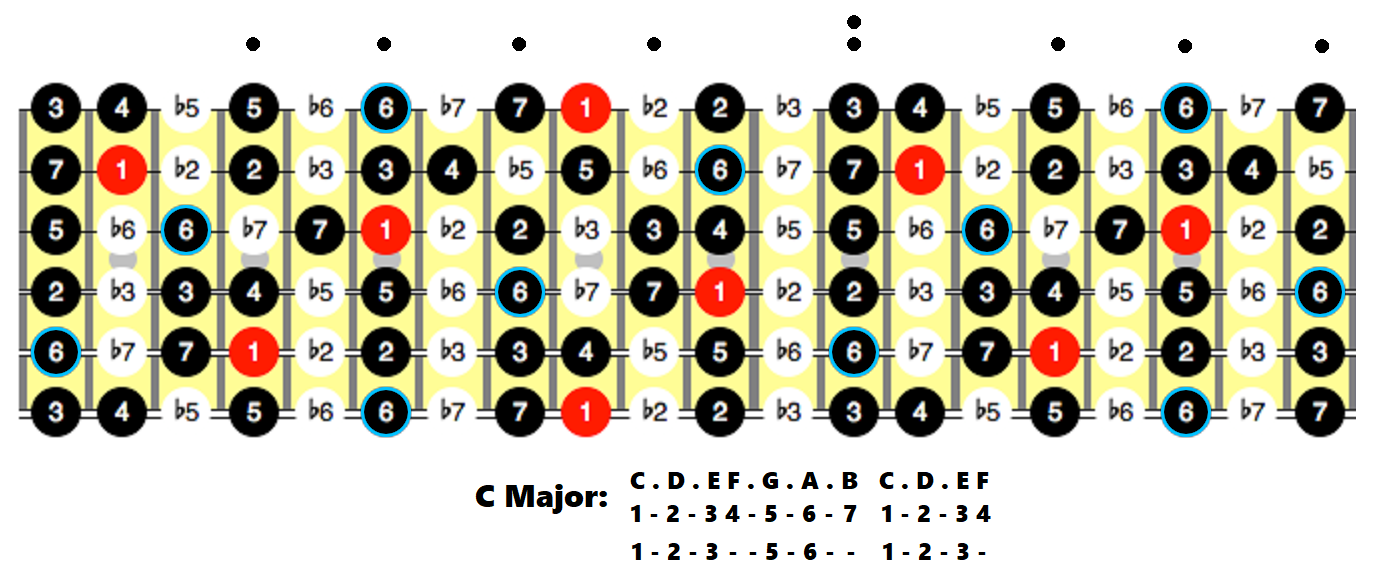
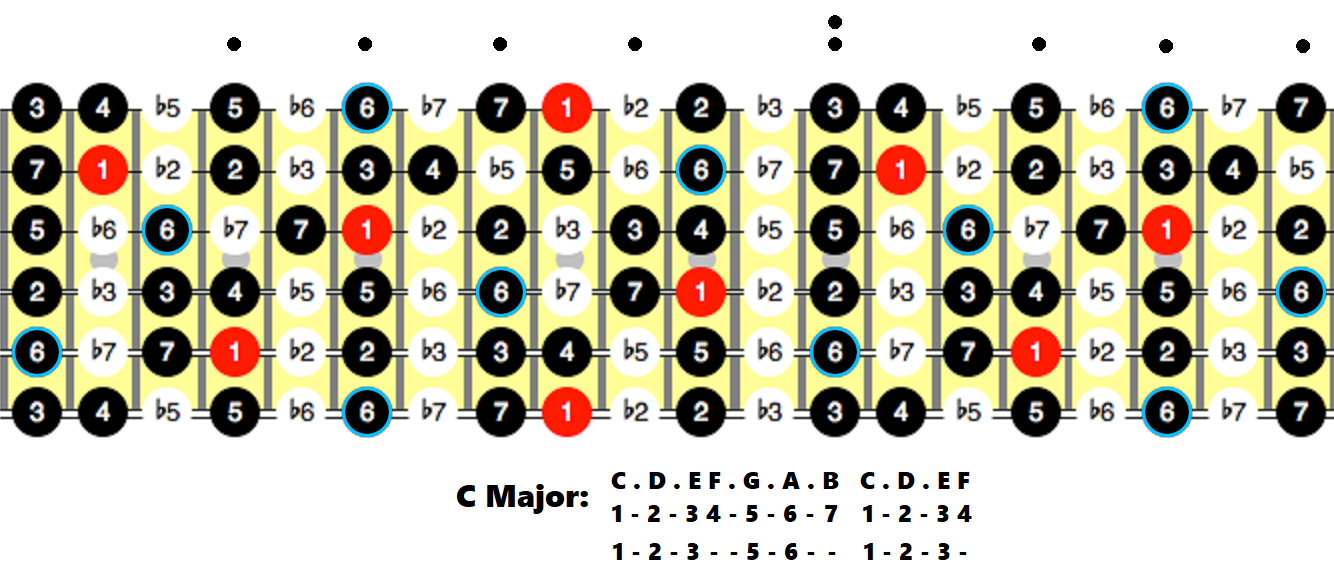
nt

diff --git a/other/music/index.html b/other/music/index.html
@@ -30,13 +30,21 @@ div {
 
 .board-main{
     height: 371px;
-    width: 1089px;
-    background-position: 0 -70px;
+    width: 1074px;
+    background-position: 0px -70px;
 }
 
 .board-bottom{
     height: 120px;
     background-position: -210px -1046px;
+}
+
+.set-c {
+    background-position: 0px -70px;
+}
+
+.set-g {
+    background-position: -332px -70px;
 }
 
 </style>
@@ -55,7 +63,7 @@ div {
 
             <div class="board board-top">
             </div>
-            <div class="board board-main">
+            <div class="board board-main set-c">
             </div>
             <div class="board board-bottom">
             </div>
